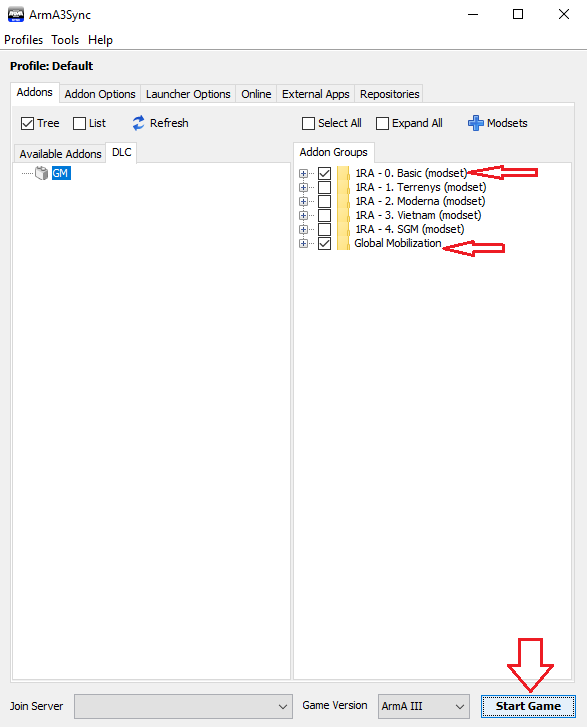
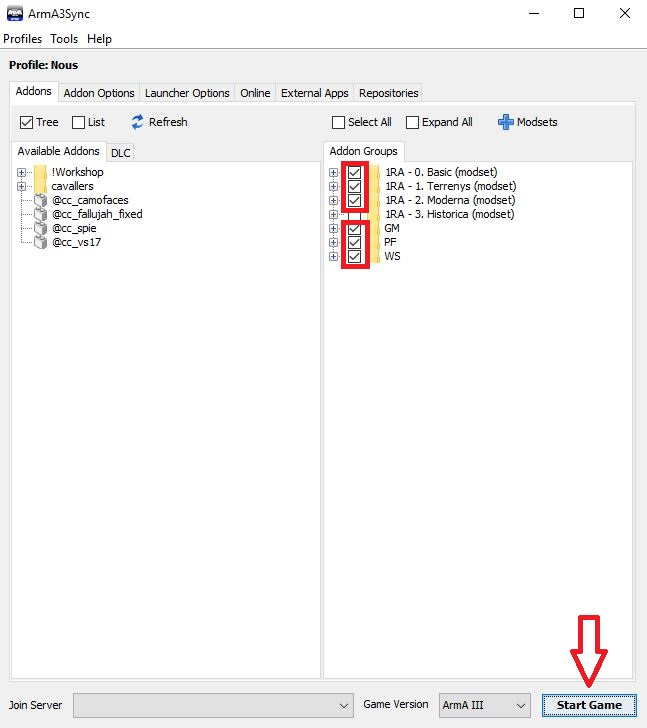
Actualitzada Guia de Benvinguda Eliminada estructura de carpetes sense ús del CRB. Actualitzat any del peu de pagina

diff --git a/docs/gn/pas9.md b/docs/gn/pas9.md
@@ -12,8 +12,8 @@ Un cop creguis que ho tens tot ben clar, has de superar la prova pràctica, en l
 
 Les proves pràctiques es fan tots els **Dimecres a les 21.30h**, has de connectar-te 15 minuts abans al TeamSpeak 3 i esperar a que un instructor es faci càrrec de tu. Recorda comprovar que el plugin de l'ACRE2 està funcionant correctament i que tens tots els mods correctament descarregats i configurats.
 
-Un cop superat el C.I.B (que te una duració aproximada de mitja hora), se't permetrà assistir a la missió posterior que sol durar 1 hora (normalment acaba a les 23.30h), on també s'avaluarà la teva resposta inicial. En cas que no superis la prova, l'instructor t'ho farà saber i et recomanarà que et preparis millor per a la següent.
+Un cop superat el C.I.B (que te una duració aproximada de mitja hora), se't permetrà assistir a la missió posterior que sol durar 1 hora (normalment acaba a les 23.30h), on també s'avaluarà la teva resposta inicial. En cas que no superis la prova, l'instructor t'ho farà saber i et recomanarà que et preparis millor per a la següent. No et preocupis ja que practicament tothom supera aquesta fase sense cap problema.
 
-Recorda ser respectuós i mantenir la disciplina en tot moment, un recluta que creu que ja ho sap tot o que no respecta la cadena de comandament, no te cap futur al 1RA. Per contra un recluta que escolta, mostra interès i ganes d'aprendre, segurament superarà el C.I.B a la primera.
+Tanmateix recorda ser respectuós i mantenir la disciplina en tot moment, un recluta que creu que ja ho sap tot o que no respecta la cadena de comandament, no te cap futur al 1RA. Per contra un recluta que escolta, mostra interès i ganes d'aprendre, segurament superarà el C.I.B a la primera.
 
 [Següent pas >](http://arma.cavallersdelcel.cat/gn/pas10)

diff --git a/docs/gn/pas7.md b/docs/gn/pas7.md
@@ -15,7 +15,7 @@ Per poder descarregar els mods cal que instal·lis l'aplicació ArmA3Sync. Aques
 
 Un dels seus principals atractius, és que compara els fitxers dels teu ordinador amb els fitxers oficials del servidor. Si no coincideixen, només descarrega els fitxers que son diferents.
 
-* Podeu descarregar l'última versió de l'Arma3Sync a través d'[aquest enllaç](http://www.sonsofexiled.fr/arma3sync/releases/).
+* Podeu descarregar l'última versió de l'Arma3Sync a través d'[aquest enllaç](http://hosted.anrop.se/arma3sync.exe).
 * *Requereix [Java](http://www.java.com/en/download) per funcionar.*
 
 Un cop instal·lat el programa, quan l'executis és possible que et pregunti on tens instal·lat l'ArmA 3. Li has d'indicar la carpeta arrel de l'Arma 3, sovint es troba dintre de la carpeta Steam `...\Steam\SteamApps\common\Arma 3`. Si has de seleccionar l'executable del simulador, assegura't de seleccionar el de 64 bits, es a dir `arma3_x64.exe`.

diff --git a/docs/gn/pas8.md b/docs/gn/pas8.md
@@ -1,12 +1,12 @@
 # Pas 8: Instal·lació de l'ACRE2
 
-*Abans de seguir aquest pas has d'assegurar-te que tens instal·lada l'aplicació `TeamSpeak 3`. I que no està **oberta**.*
+*Abans de seguir aquest pas has d'assegurar-te que tens instal·lada l'aplicació `TeamSpeak 3`. I que **NO** està **oberta**.*
 
 L'ACRE2 és un "mod" per simular comunicacions de ràdio i veu. Utilitza TeamSpeak 3 com a servidor de veu.
 
 Per fer-lo servir és necessari instal·lar un `plugin`. Aquest plugin s'instal·larà de forma automàtica quan arranquem el simulador amb el mod ACRE2 posat.
 
-Per fer-ho, dins de l'ArmA3Sync has de sel·leccionar les caselles dels modsets `Basic`, `GM` i `PF`, i seguidament `Start Game`.
+Per fer-ho, dins de l'ArmA3Sync has de sel·leccionar les caselles dels modsets `Basic`, `Terrenys`, `Moderna`, `GM`, `PF`, `WS` i seguidament `Start Game`.
 
 ![image](_imatges/acre2_1.png){: .center}
 
